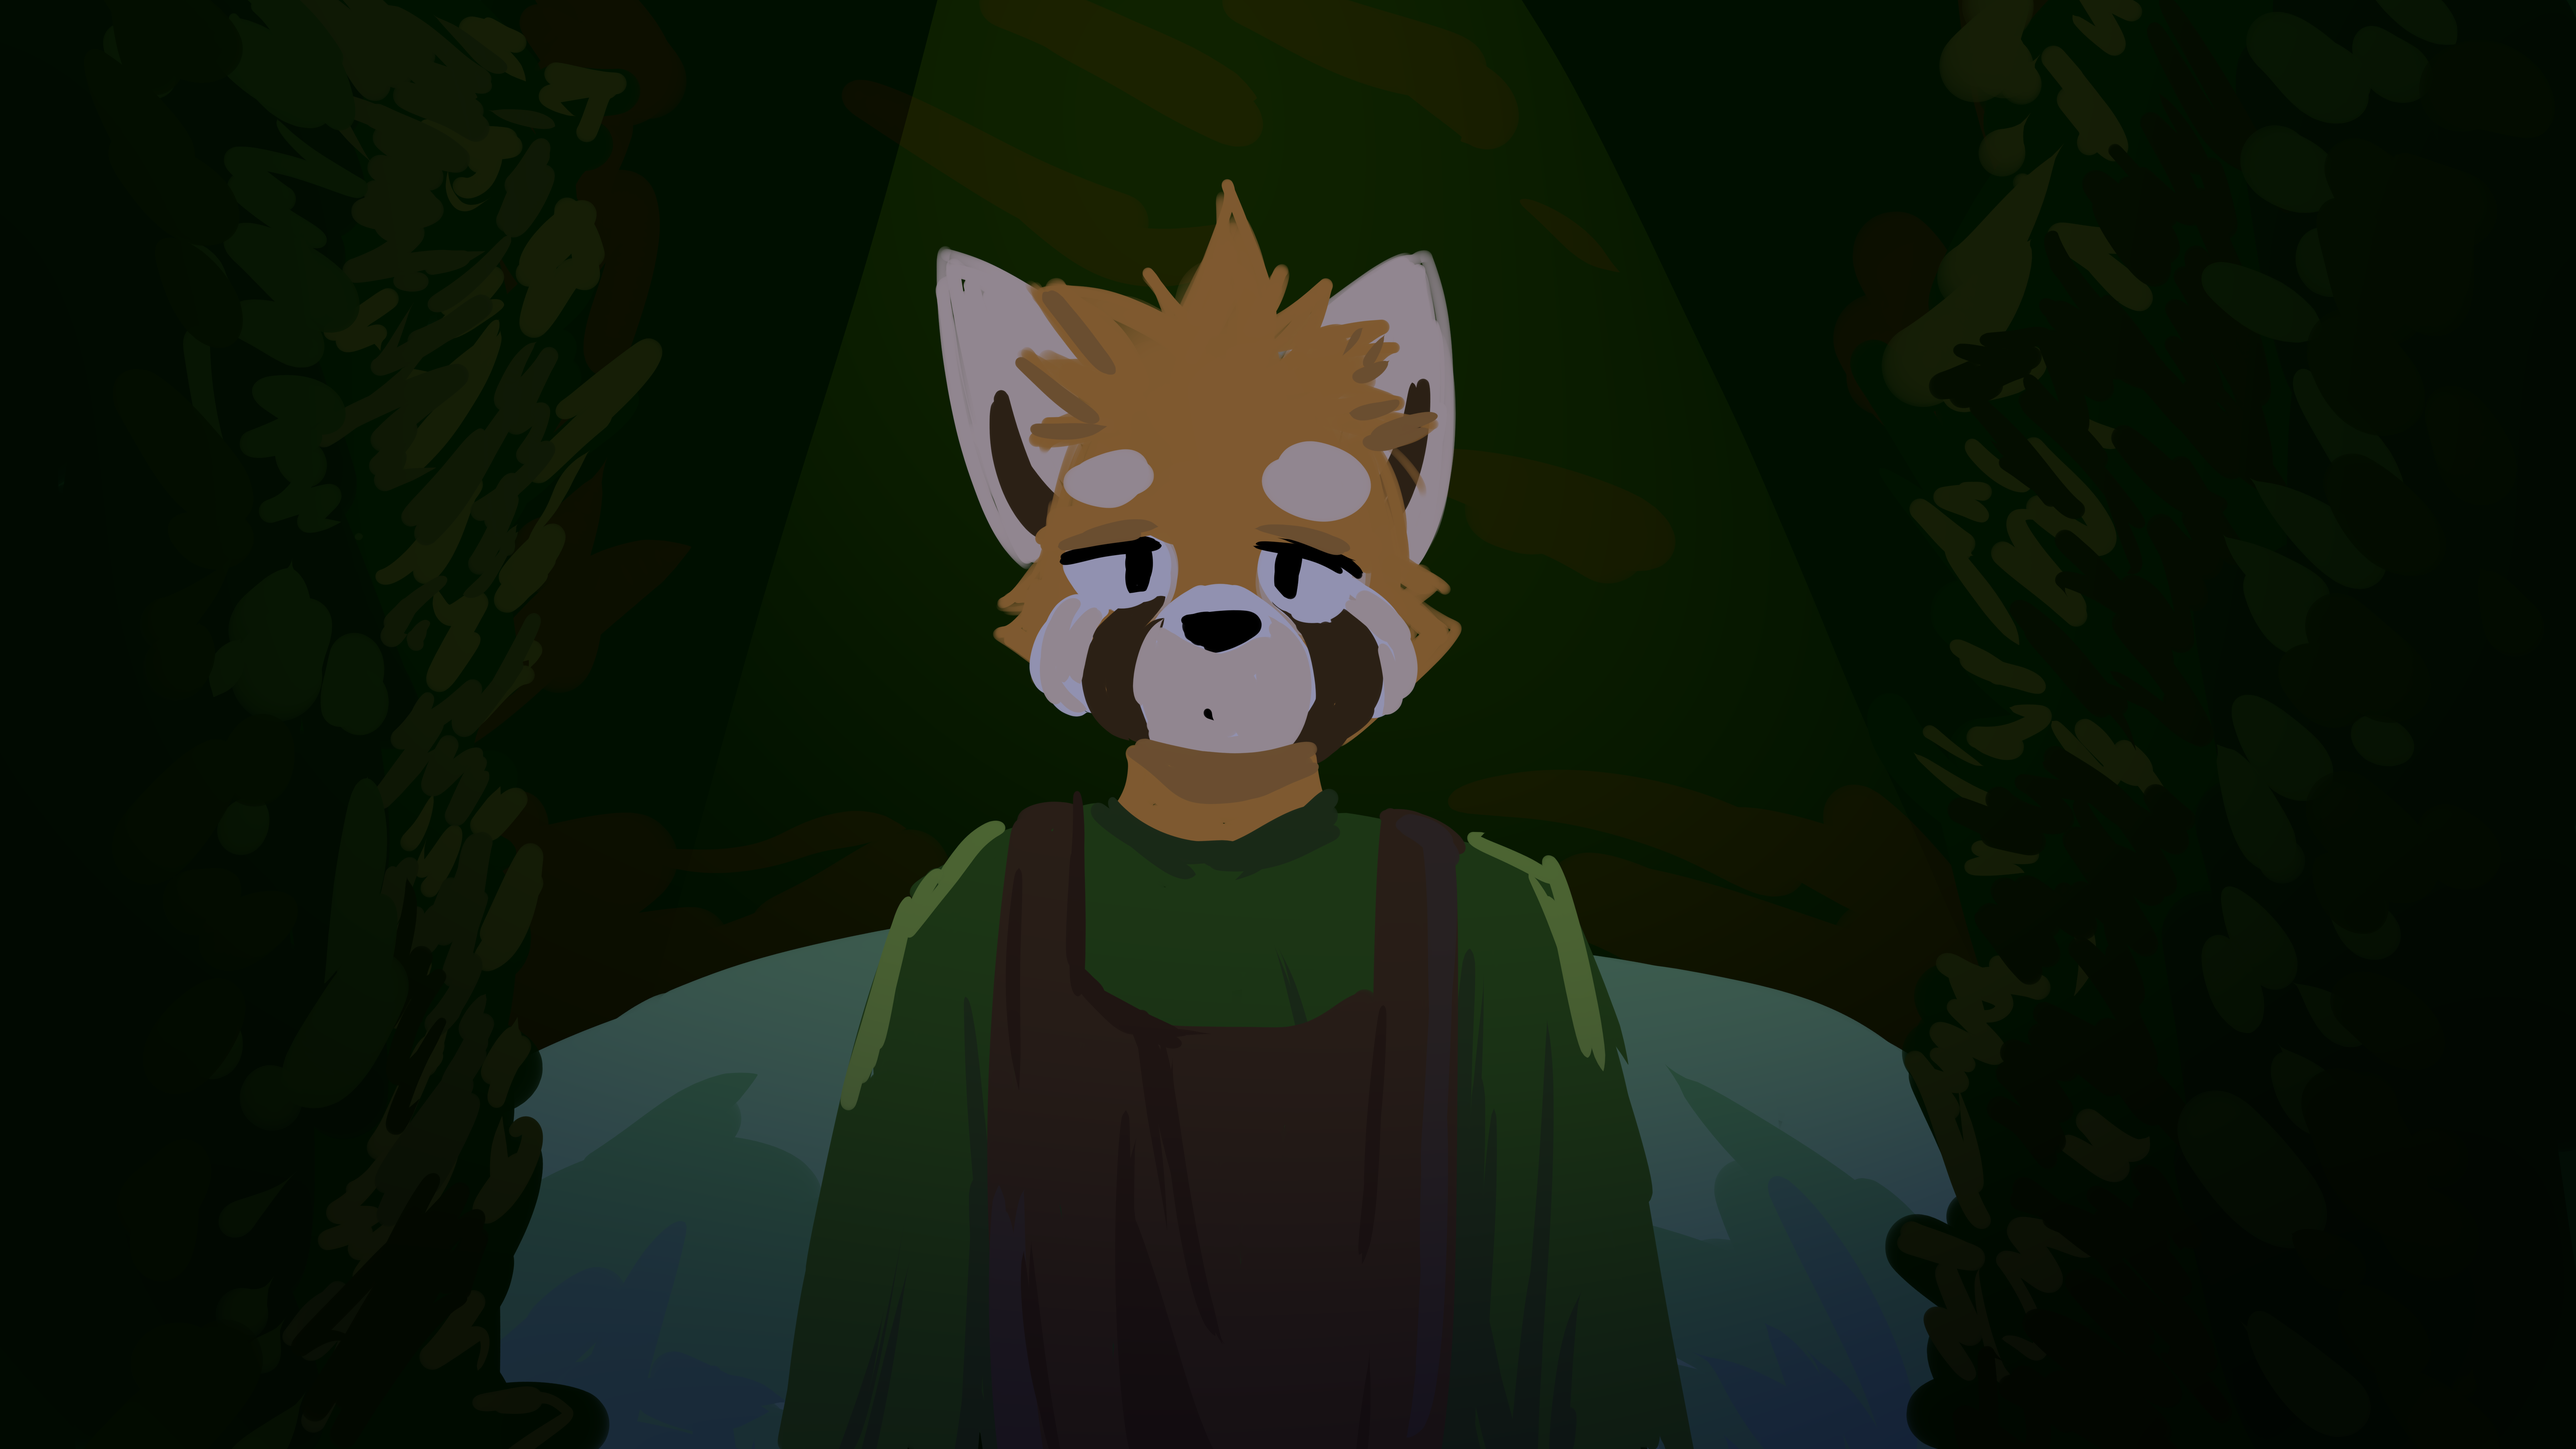
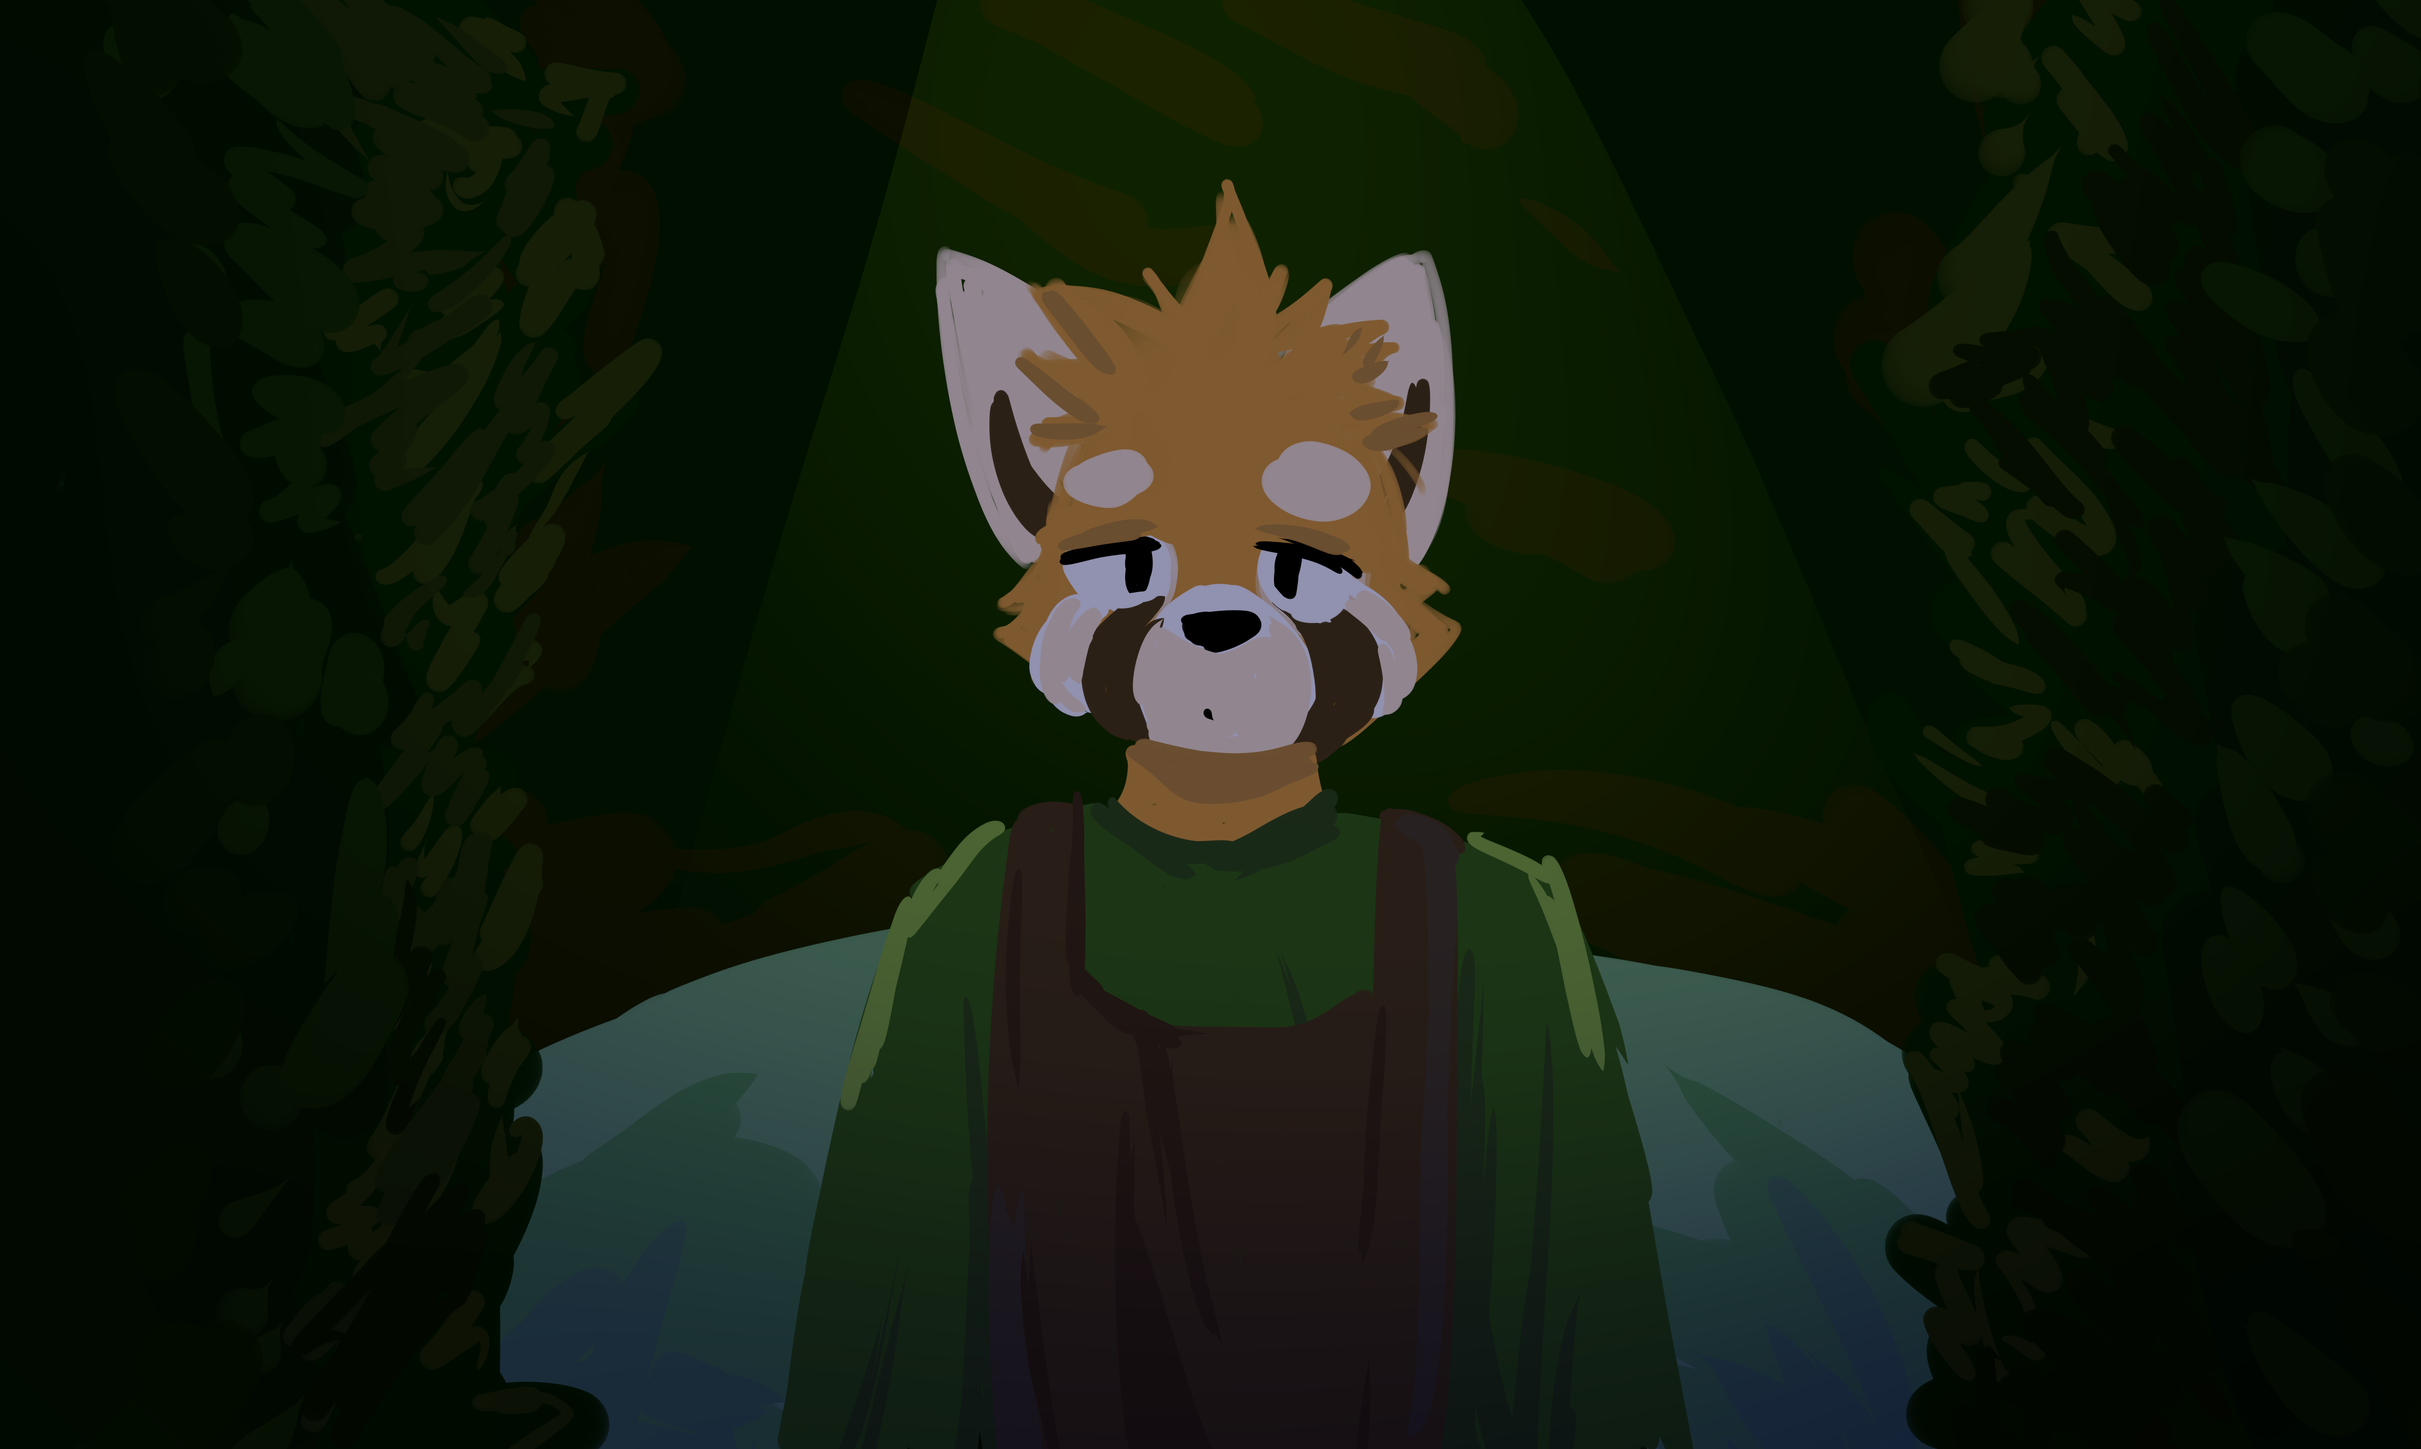
WEBSITE TEST 10

Changed region(s): [[0.187, 0.125, 0.6234, 1.0], [0.561, 0.5625, 0.8104, 1.0], [0.3428, 0.0625, 0.374, 0.125]]

diff --git a/Contacts.html b/Contacts.html
@@ -22,6 +22,17 @@
         <li><a href="./Contacts.html">Contact</a></li>
       </ul>
     </nav>
+    <div class="socials">
+      <div class="twitter">
+      <a href="https://x.com/_P4NDES4L"><img src="/Assets/Contacts/twitter.png" alt="Twitter" width="500px"></a>
+      </div>
+      <div class="bsky">
+      <a href="https://bsky.app/profile/p4ndes4l.bsky.social"><img src="/Assets/Contacts/bsky.png" alt="Bluesky" width="500px"></a>
+      </div>
+      <div class="telegram">
+      <a href="https://telegram.me/frootsloops"><img src="/Assets/Contacts/tele.png" alt="Telegram" width="500px"></a>
+      </div>
+    </div>
     <div class="text-wrapper noto-serif-display">
         <p class="moving-text">P4NDES4L's PATREON COMING SOON / </p>
         <p class="moving-text">P4NDES4L's PATREON COMING SOON / </p>

diff --git a/CSS/contacts.css b/CSS/contacts.css
@@ -78,6 +78,7 @@
 
       .nav-links a:hover {
           background-color: red;
+          border-radius: 8px;
       }
 
       .text-wrapper {
@@ -111,4 +112,27 @@
           100% {
               transform: translateX(-100%);
           }
-      } 
+      }
+
+      .socials {
+        position: fixed; 
+        top: 50%;
+        left: 50%;
+        transform: translate(-50%, -50%);
+        display: flex;
+        flex-direction: column;
+        align-items: center;
+        gap: 18px;
+        padding: 8px;
+        width: 100%;
+        max-width: 480px;
+        z-index: 2; 
+      }
+
+      .socials img {
+          width: auto;
+          max-width: 420px;
+          height: auto;
+          display: block;
+          margin: 20px auto;
+      }

diff --git a/Portfolio.html b/Portfolio.html
@@ -78,6 +78,11 @@
     <div class="content">
       <img src="./Assets/Portfolio/Illustrations/illust4.png" alt="Rain" width="450px">
     </div>
+    <div class="column designs">
+      <div class="content">
+        <img src="./Assets/Portfolio/Illustrations/illust5.png" alt="Buildings" width="400px">
+      </div>
+    </div>
    </div>
 
    <!-- Graphic Designs-->
@@ -94,6 +99,11 @@
     <div class="column designs">
       <div class="content">
         <img src="./Assets/Portfolio/Graphic Designs/design6.png" alt="Poster" width="400px">
+      </div>
+    </div>
+    <div class="column designs">
+      <div class="content">
+        <img src="./Assets/Portfolio/Graphic Designs/design7.png" alt="Ad" width="400px">
       </div>
     </div>
 </div>

diff --git a/CSS/portfolio.css b/CSS/portfolio.css
@@ -68,6 +68,7 @@
 
       .nav-links a:hover {
           background-color: red;
+          border-radius: 8px;
       }
 
       .text-wrapper {
@@ -141,6 +142,7 @@
           display: flex;
           justify-content: center;
           align-items: center;
+          background-color: aliceblue;
       }
 
       .show {
@@ -156,7 +158,7 @@
           text-align: center;
           display: inline-block;
           margin: 10px;
-          margin-bottom: 30px;
+          margin-bottom: 36px;
           background-color: transparent;
           color: white;
           font-size: 20px;
@@ -180,4 +182,5 @@
           max-width: 100%;
           height: auto;
           display: block;
+          margin: 0 auto; 
       }

diff --git a/CSS/about.css b/CSS/about.css
@@ -14,10 +14,10 @@
           position: fixed;
           width: 100%;
           height: 100%;
-          background-image: url("../Assets/AboutBG.jpg");
+          background-image: url("/Assets/Portfolio/Illustrations/illust2.png");
           background-repeat: no-repeat;
           background-size: cover;
-          filter: blur(10px);
+          filter: brightness(50%) blur(10px);
           z-index: -1;
 
       }
@@ -79,6 +79,7 @@
 
       .nav-links a:hover {
           background-color: red;
+          border-radius: 8px;
       }
 
       .text-wrapper {

diff --git a/index.html b/index.html
@@ -30,9 +30,9 @@
     </header>
     <div class="containerbg">
         <div class="wrapperbg">
-            <img src="./Assets/Portfolio/Illustrations/illust2.png" />
+            <img src="./Assets/Buildings.png" />
             <img src="./Assets/Portfolio/Illustrations/illust4.png" />
-            <img src="./Assets/Portfolio/Photography/photog2.JPG" />
+            <img src="./Assets/Portfolio/Illustrations/illust2.png" />
         </div>
     </div>
     <footer class="container">

diff --git a/CSS/style.css b/CSS/style.css
@@ -76,6 +76,7 @@
 
       .nav-links a:hover {
           background-color: red;
+          border-radius: 8px;
       }
 
       .text-wrapper {
